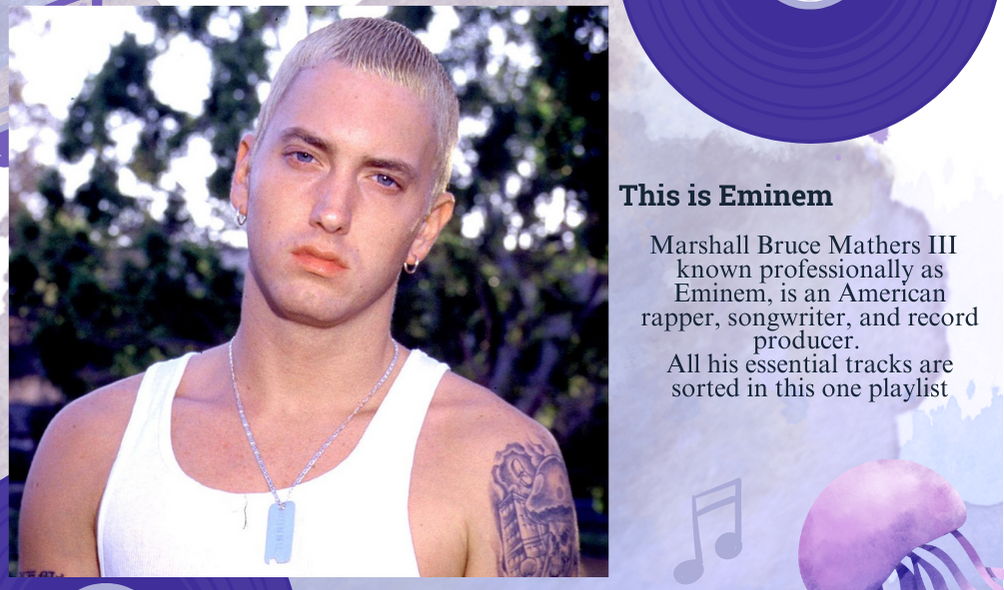
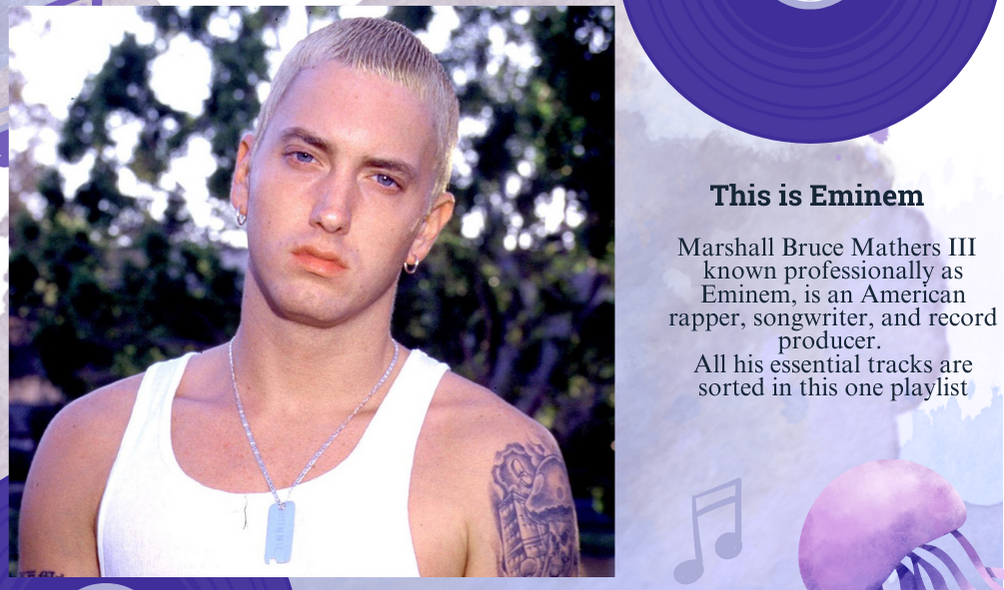
Minor changes in flexbox

Changed region(s): [[0.6484, 0.3966, 1.0, 0.7017], [0.5867, 0.0, 0.9263, 0.9763]]

diff --git a/css/style.css b/css/style.css
@@ -147,7 +147,7 @@ body {
   
   .card{
     flex: 1;
-    height: 200px;
+    height: 258px;
     background-color: gray;
     border-radius: 16px;
     transition: all .3s ease;
@@ -186,6 +186,7 @@ body {
   }
   .c1{
     background-image: url("../assets/Pink_Floyd_.jpg");
+    text-align: center;
     
   }
   .c2{
